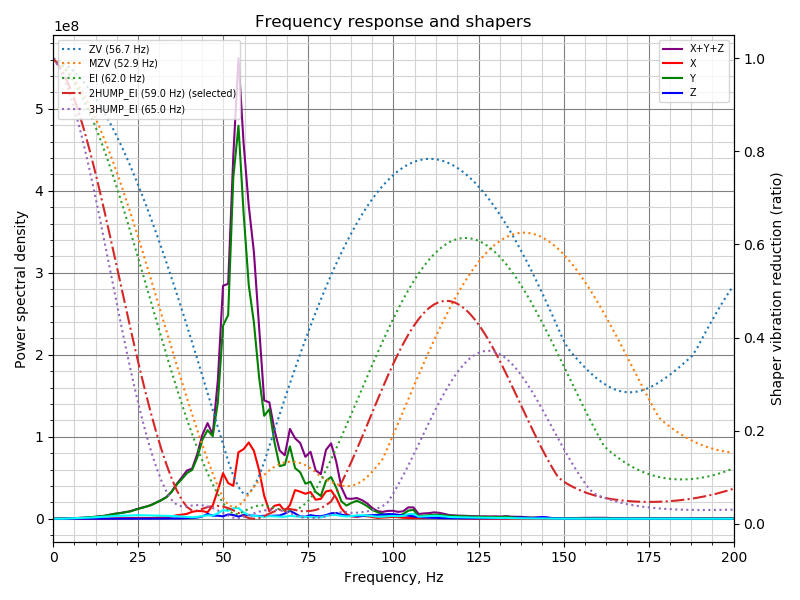
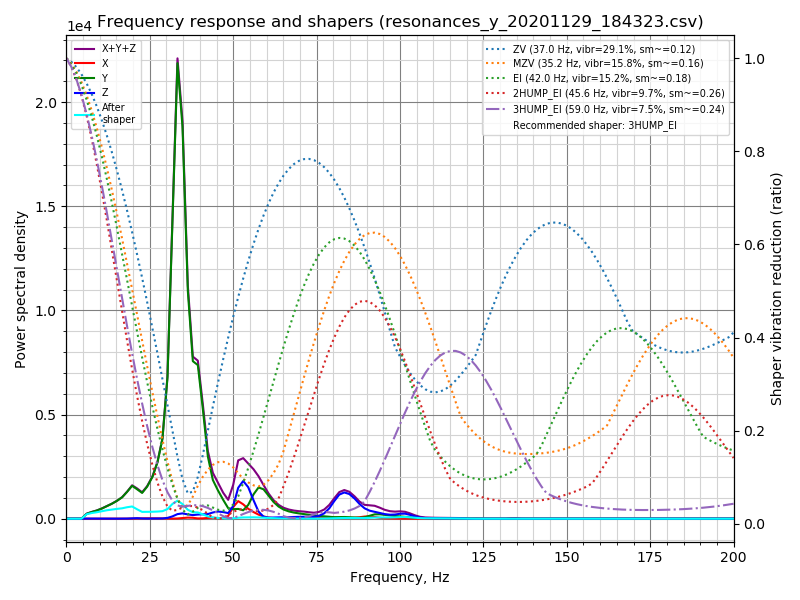
docs: Limiting max_smoothing for input shaper autocalibration

Changed region(s): [[0.0312, 0.03, 0.9375, 0.99], [0.9062, 0.9, 0.9375, 0.96]]

diff --git a/docs/Measuring_Resonances.md b/docs/Measuring_Resonances.md
@@ -168,22 +168,22 @@ recommended for your setup. For example:
 
 ![Resonances](img/calibrate-y.png)
 ```
-Fitted shaper 'zv' frequency = 56.7 Hz (vibrations = 23.2%)
-Fitted shaper 'mzv' frequency = 52.9 Hz (vibrations = 10.9%)
-Fitted shaper 'ei' frequency = 62.0 Hz (vibrations = 8.9%)
-Fitted shaper '2hump_ei' frequency = 59.0 Hz (vibrations = 4.9%)
-Fitted shaper '3hump_ei' frequency = 65.0 Hz (vibrations = 3.3%)
-Recommended shaper is 2hump_ei @ 59.0 Hz
+Fitted shaper 'zv' frequency = 37.0 Hz (vibrations = 29.1%, smoothing ~= 0.115)
+Fitted shaper 'mzv' frequency = 35.4 Hz (vibrations = 15.9%, smoothing ~= 0.163)
+Fitted shaper 'ei' frequency = 42.0 Hz (vibrations = 15.1%, smoothing ~= 0.183)
+Fitted shaper '2hump_ei' frequency = 45.6 Hz (vibrations = 9.7%, smoothing ~= 0.260)
+Fitted shaper '3hump_ei' frequency = 59.0 Hz (vibrations = 7.5%, smoothing ~= 0.235)
+Recommended shaper is 3hump_ei @ 59.0 Hz
 ```
 
 The suggested configuration can be added to `[input_shaper]` section of
-`printer.cfg`:
+`printer.cfg`, e.g.:
 ```
 [input_shaper]
-shaper_freq_x: 59.0
-shaper_type_x: 2hump_ei
-shaper_freq_y: ...
-shaper_type_y: ...
+shaper_freq_x: ...
+shaper_type_x: ...
+shaper_freq_y: 59.0
+shaper_type_y: 3hump_ei
 ```
 or you can choose some other configuration yourself based on the generated
 charts: peaks in the power spectral density on the charts correspond to
@@ -223,11 +223,82 @@ probe_points: ...
 Then the commands `TEST_RESONANCES AXIS=X` and `TEST_RESONANCES AXIS=Y`
 will use the correct accelerometer for each axis.
 
+## Max smoothing
+
+Keep in mind that the input shaper can create some smoothing in parts.
+Automatic tuning of the input shaper performed by `calibrate_shaper.py`
+script or `SHAPER_CALIBRATE` command tries not to exacerbate the smoothing,
+but at the same time they try to minimize the resulting vibrations.
+Sometimes they can make a sub-optimal choice of the shaper frequency, or
+maybe you simply prefer to have less smoothing in parts at the expense of
+a larger remaining vibrations. In these cases, you can request to limit
+the maximum smoothing from the input shaper.
+
+Let's consider the following results from the automatic tuning:
+
+![Resonances](img/calibrate-x.png)
+```
+Fitted shaper 'zv' frequency = 62.2 Hz (vibrations = 36.9%, smoothing ~= 0.046)
+Fitted shaper 'mzv' frequency = 35.6 Hz (vibrations = 18.1%, smoothing ~= 0.161)
+Fitted shaper 'ei' frequency = 54.6 Hz (vibrations = 19.3%, smoothing ~= 0.108)
+Fitted shaper '2hump_ei' frequency = 46.2 Hz (vibrations = 9.2%, smoothing ~= 0.253)
+Fitted shaper '3hump_ei' frequency = 50.0 Hz (vibrations = 7.2%, smoothing ~= 0.328)
+Recommended shaper is 2hump_ei @ 46.2 Hz
+```
+Note that the reported `smoothing` values are some abstract projected values.
+These values can be used to compare different configurations: the higher the
+value, the more smoothing a shaper will create. However, these smoothing scores
+do not represent any real measure of smoothing, because the actual smoothing
+depends on [`max_accel`](#selecting-max-accel) and `square_corner_velocity`
+parameters. Therefore, you should print some test prints to see how much
+smoothing exactly a chosen configuration creates.
+
+In the example above the suggested shaper parameters are not bad, but what if
+you want to get less smoothing on the X axis? You can try to limit the maximum
+shaper smoothing using the following command:
+```
+~/klipper/scripts/calibrate_shaper.py /tmp/resonances_x_*.csv -o /tmp/shaper_calibrate_x.png --max_smoothing=0.2
+```
+which limits the smoothing to 0.2 score. Now you can get the following result:
+
+![Resonances](img/calibrate-x-max-smoothing.png)
+```
+Fitted shaper 'zv' frequency = 55.2 Hz (vibrations = 34.2%, smoothing ~= 0.057)
+Fitted shaper 'mzv' frequency = 33.8 Hz (vibrations = 17.4%, smoothing ~= 0.178)
+Fitted shaper 'ei' frequency = 47.4 Hz (vibrations = 17.6%, smoothing ~= 0.143)
+Fitted shaper '2hump_ei' frequency = 52.0 Hz (vibrations = 11.9%, smoothing ~= 0.200)
+Fitted shaper '3hump_ei' frequency = 75.0 Hz (vibrations = 9.7%, smoothing ~= 0.146)
+Recommended shaper is 3hump_ei @ 75.0 Hz
+```
+
+If you compare to the previously suggested parameters, the vibrations are a bit
+larger, but the smoothing is significantly smaller than previously.
+
+When deciding which `max_smoothing` parameter to choose, you can use a
+trial-and-error approach. Try a few different values and see which results
+you get. Note however that if you request the script to find a configuration
+for your printer with an unrealistically small smoothing, it will be unable
+to find a reasonable configuration. The suggested parameters will have a poor
+performance in this case and you can get too much remaining ringing as a result.
+So, always double-check the projected remaining vibrations and make sure they
+are not too high.
+
+Note that if you chose a good `max_smoothing` value for both of your axes, you
+can store it in the `printer.cfg` as
+```
+[resonance_tester]
+accel_chip: ...
+probe_points: ...
+max_smoothing: 0.25  # an example
+```
+Then, if you [rerun](#input-shaper-re-calibration) the input shaper auto-tuning
+using `SHAPER_CALIBRATE` Klipper command in the future, it will use the stored
+`max_smoothing` value as a reference.
+
 ## Selecting max_accel
 
-Keep in mind that the input shaper can create some smoothing in parts,
-especially at high accelerations. Therefore, after the calibration
-is finished, you will still need to choose the `max_accel` value that
+Since the input shaper can create some smoothing in parts, especially at high
+accelerations, you will still need to choose the `max_accel` value that
 does not create too much smoothing in the printed parts. Follow
 [this](Resonance_Compensation.md#selecting-max_accel) part of
 the input shaper tuning guide and print the test model.
@@ -236,6 +307,10 @@ The same notice applies to the input shaper
 [auto-calibration](#input-shaper-auto-calibration) with
 `SHAPER_CALIBRATE` command: it is still necessary to choose the right
 `max_accel` value after the auto-calibration.
+
+If you are doing a shaper re-calibration and the reported smoothing for the
+suggested shaper configuration is almost the same as what you got during the
+previous calibration, this step can be skipped.
 
 
 # Input Shaper auto-calibration

diff --git a/docs/G-Codes.md b/docs/G-Codes.md
@@ -739,13 +739,17 @@ is enabled (also see the
   "YYYYMMDD_HHMMSS" format.
 - `SHAPER_CALIBRATE [AXIS=<axis>] [NAME=<name>]
   [FREQ_START=<min_freq>] [FREQ_END=<max_freq>]
-  [HZ_PER_SEC=<hz_per_sec>]`: Similarly to `TEST_RESONANCES`, runs the
-  resonance test as configured, and tries to find the optimal
-  parameters for the input shaper for the requested axis (or both X
-  and Y axes if `AXIS` parameter is unset). The results of the tuning
-  are printed to the console, and the frequency responses and the
-  different input shapers values are written to a CSV file(s)
-  `/tmp/calibration_data_<axis>_<name>.csv`. Unless specified, NAME
+  [HZ_PER_SEC=<hz_per_sec>] [MAX_SMOOTHING=<max_smoothing>]`:
+  Similarly to `TEST_RESONANCES`, runs the resonance test as configured,
+  and tries to find the optimal parameters for the input shaper for the
+  requested axis (or both X and Y axes if `AXIS` parameter is unset).
+  If `MAX_SMOOTHING` is unset, its value is taken from `[resonance_tester]`
+  section, with the default being unset. See the
+  [Max smoothing](Measuring_Resonances.md#max-smoothing) of the measuring
+  resonances guide for more information on the use of this feature.
+  The results of the tuning are printed to the console, and the frequency
+  responses and the different input shapers values are written to a CSV
+  file(s) `/tmp/calibration_data_<axis>_<name>.csv`. Unless specified, NAME
   defaults to the current time in "YYYYMMDD_HHMMSS" format. Note that
   the suggested input shaper parameters can be persisted in the config
   by issuing `SAVE_CONFIG` command.

diff --git a/docs/Config_Reference.md b/docs/Config_Reference.md
@@ -1414,7 +1414,9 @@ In order to use most of the functionality of this module, additional
 software dependencies must be installed; refer to
 [Measuring Resonances](Measuring_Resonances.md) and the
 [command reference](G-Codes.md#resonance-testing-commands) for more
-information.
+information. See the [Max smoothing](Measuring_Resonances.md#max-smoothing)
+section of the measuring resonances guide for more information on
+`max_smoothing` parameter and its use.
 
 ```
 [resonance_tester]
@@ -1438,6 +1440,11 @@ information.
 #   and on the toolhead (for X axis). These parameters have the same
 #   format as 'accel_chip' parameter. Only 'accel_chip' or these two
 #   parameters must be provided.
+#max_smoothing:
+#   Maximum input shaper smoothing to allow for each axis during shaper
+#   auto-calibration (with 'SHAPER_CALIBRATE' command). By default no
+#   maximum smoothing is specified. Refer to Measuring_Resonances guide
+#   for more details on using this feature.
 #min_freq: 5
 #   Minimum frequency to test for resonances. The default is 5 Hz.
 #max_freq: 120
